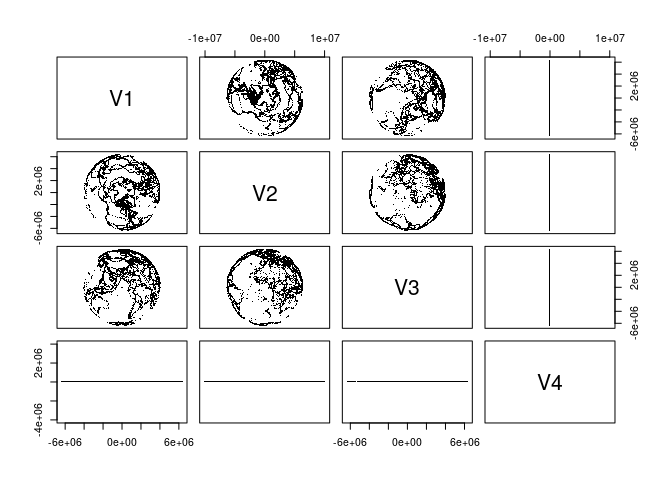
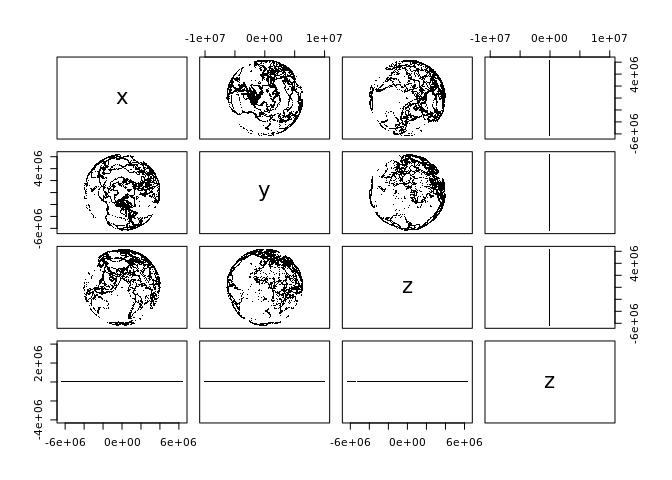
doc

diff --git a/README.md b/README.md
@@ -129,15 +129,15 @@ src <- "WGS84"
 
 ## forward transformation
 (xy <- proj_trans_generic( cbind(lon, lat), dst, source = src))
-#>          [,1]     [,2] [,3] [,4]
-#> [1,] -8013029 -8225762    0    0
-#> [2,]        0        0    0    0
+#>             x        y z z
+#> [1,] -8013029 -8225762 0 0
+#> [2,]        0        0 0 0
 
 ## inverse transformation
 proj_trans_generic(xy, src, source = dst)
-#>      [,1]          [,2] [,3] [,4]
-#> [1,]    0 -3.194835e-15    0    0
-#> [2,]  147 -4.200000e+01    0    0
+#>        x             y z z
+#> [1,]   0 -3.194835e-15 0 0
+#> [2,] 147 -4.200000e+01 0 0
 ```
 
 A more realistic example with coastline map data.
@@ -169,7 +169,10 @@ library(reproj)
 library(rgdal)
 library(lwgeom)
 library(sf)
-#> Linking to GEOS 3.8.0, GDAL 3.0.2, PROJ 6.2.1
+#> Linking to GEOS 3.8.0, GDAL 2.4.2, PROJ 5.2.0
+#> WARNING: different compile-time and runtime versions for GEOS found:
+#> Linked against: 3.8.0-CAPI-1.13.1  compiled against: 3.7.1-CAPI-1.11.1
+#> It is probably a good idea to reinstall sf, and maybe rgeos and rgdal too
 lon <- w[,1]
 lat <- w[,2]
 lon <- rep(lon, 25)
@@ -191,10 +194,10 @@ rbenchmark::benchmark(
         replications = 100) %>% 
   dplyr::arrange(elapsed) %>% dplyr::select(test, elapsed, replications)
 #>         test elapsed replications
-#> 1      rgdal   5.978          100
-#> 2 sf_project   7.525          100
-#> 3       PROJ   8.543          100
-#> 4     reproj  10.990          100
+#> 1 sf_project   4.558          100
+#> 2      rgdal   4.786          100
+#> 3       PROJ   8.060          100
+#> 4     reproj  10.810          100
 ```
 
 The speed is not exactly stunning, but with PROJ we can also do 3D
@@ -253,7 +256,7 @@ There are a few links to the PROJ (PROJ.4) library in R.
     transformations.
   - [lwgeom](https://CRAN.R-project.org/package=lwgeom) Provides high
     level `st_transform_proj()` also converts coordinates in list
-    heirarchies of matrices into WKB, but internally uses the PROJ
+    hierarchies of matrices into WKB, but internally uses the PROJ
     (PROJ.4) library directly.
 
 (The [mapproject](https://CRAN.R-project.org/package=mapproject) package
